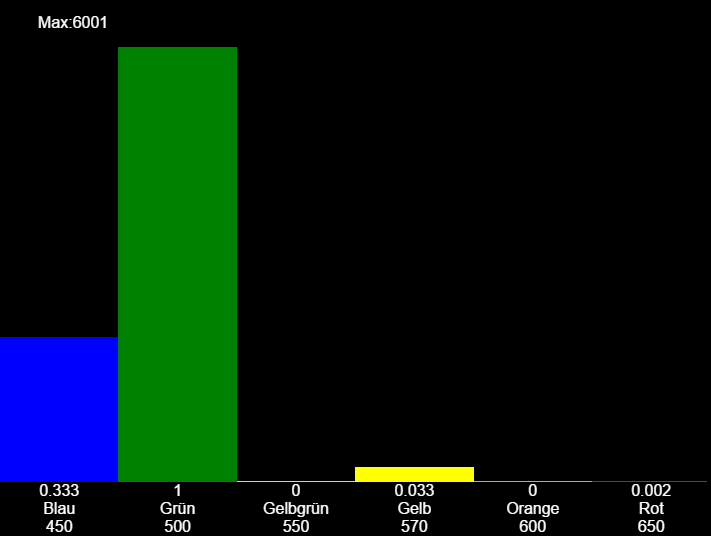
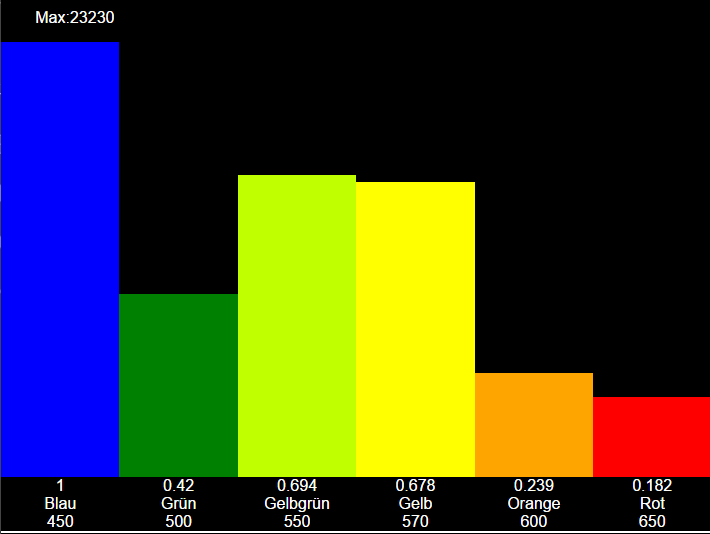
Inserted correct pictures

diff --git a/thesis/theDoc.TeX b/thesis/theDoc.TeX
@@ -682,15 +682,22 @@ und versucht zu emittieren.
 Als Referenz Messgerät zu dem vergleichsweisen niedrigpreisigen Sensoren wurde das bei MA Lighting bereits vorhandene Spektralmessgerät
 "'MK350 LED"' der Firma UPRtek genutzt.\\
 \begin{figure}[H]
-    \begin{center}
-        \includegraphics[width=.48\textwidth]{images/MK350N_Basic_Handheld_Spectrometer.png}
-    \end{center}
-    \caption{UPRtek MK350 LED \cite{uprtek}}
+    \centering
+    \begin{subfigure}[b]{0.49\textwidth}
+        \includegraphics[width=\textwidth]{images/MK350N_Basic_Handheld_Spectrometer.png}
+        \caption{Produkt \cite{uprtek}}
+    \end{subfigure}
+    \hfill 
+    \begin{subfigure}[b]{0.49\textwidth}
+        \includegraphics[width=\textwidth]{images/mk350_lightcan_green.JPG}
+        \caption{Grafisches Benutzer Interface}
+    \end{subfigure}
+    \caption{UPRtek MK350 LED}
 \end{figure}
 \noindent
-Dieses Messgerät kann Spektraldaten im Bereich von {\color{red} 360} bis {\color{red} 760} nanometern messen. Hier wird ein Messwert pro
-einem Nanometer erfasst. Daraus Berechnet das Messgerät weiter \ac{cie} 1931 xy Koordinaten, sowie \ac{cie} 1973 uv Koordinaten.
-Messwerte können einzeln oder auch in Serie erfasst werden und im CSV Format für die weitere Auswertung auf eine SD Karte gesichert werden.
+Dieses Messgerät kann Spektraldaten im Bereich von 360 bis 760 nanometern messen. Hier wird ein Messwert pro einem Nanometer erfasst. Daraus Berechnet
+das Messgerät weiter \ac{cie} 1931 xy Koordinaten, sowie \ac{cie} 1973 uv Koordinaten. Messwerte können einzeln oder auch in Serie erfasst werden und
+im CSV Format für die weitere Auswertung auf eine SD Karte gesichert werden.
 \clearpage
 
 %%%%%%%%%%%%%%%%%%%%%%%%%% Messungen %%%%%%%%%%%%%%%%%%%%%%%%%%%%%%%%%%%%%%%%%%%%%%%%%%%%%%%%%%%%%%%%%
@@ -709,19 +716,19 @@ gemessene Amplitude nach 1 normiert wird. Zur Vergleichbarkeit werden auch in de
 \begin{figure}[H]
     \centering
     \begin{subfigure}[b]{0.49\textwidth}
-        \includegraphics[width=\textwidth]{images/AS7262_functional_blockdiagram.png}
-        \caption{Spektrum MK350}\label{fig:green_spec_MK350} %// TODO Exchange picture
+        \includegraphics[width=\textwidth]{images/mk350_lightcan_green_spectrum.png}
+        \caption{Spektrum MK350}\label{fig:green_spec_MK350}
     \end{subfigure}
     \hfill 
     \begin{subfigure}[b]{0.49\textwidth}
-        \includegraphics[width=\textwidth]{images/AS7262_spectrum.png}
-        \caption{Spektrum AS7262}\label{fig:green_spec_7262} %// TODO Exchange picture
+        \includegraphics[width=\textwidth]{images/app_lightcan_green_spectrum.png}
+        \caption{Spektrum AS7262}\label{fig:green_spec_7262}
     \end{subfigure}
     \caption{Spektrum des grünen Emitters einer LightCan}
 \end{figure}
 \noindent
 Doch war hier ein großes Defizit des AS7262 zu beobachten. wie in Bild  \ref{fig:green_spec_MK350} zu erkennen liegt für das Maximum
-des grünen Emitters bei ca. 480 nanometern. Doch liegen die beiden nächsten Messflanken des AS7262 bei 450 und 500 nanometern (Bild \ref{fig:spec_7262}).
+des grünen Emitters bei ca. 515 nanometern. Doch liegen die beiden nächsten Messflanken des AS7262 bei 500 und 550 nanometern (Bild \ref{fig:spec_7262}).
 Somit wird der Wellenlängenbereich mit der höchsten Energiedichte nicht erfasst. Dies erzeugt eine relevante Fehlerquelle für weitere
 Berechnungen.\\
 Nach der Implementierung der ersten Auswertung der Messdaten eines mit der Applikation verbundenen Sensors wurde begonnen, die Messwerte in der
